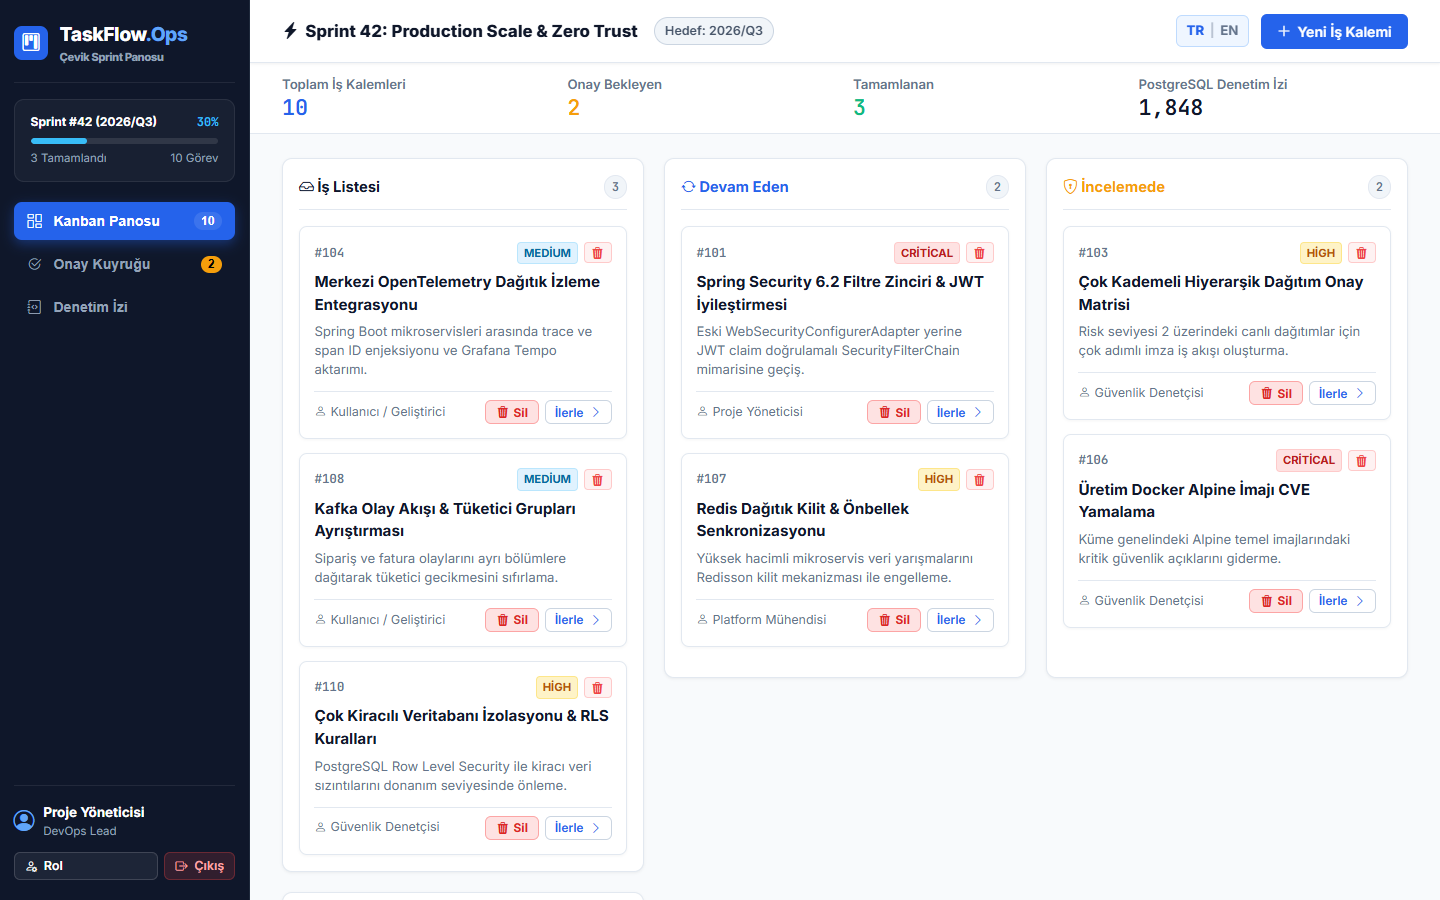
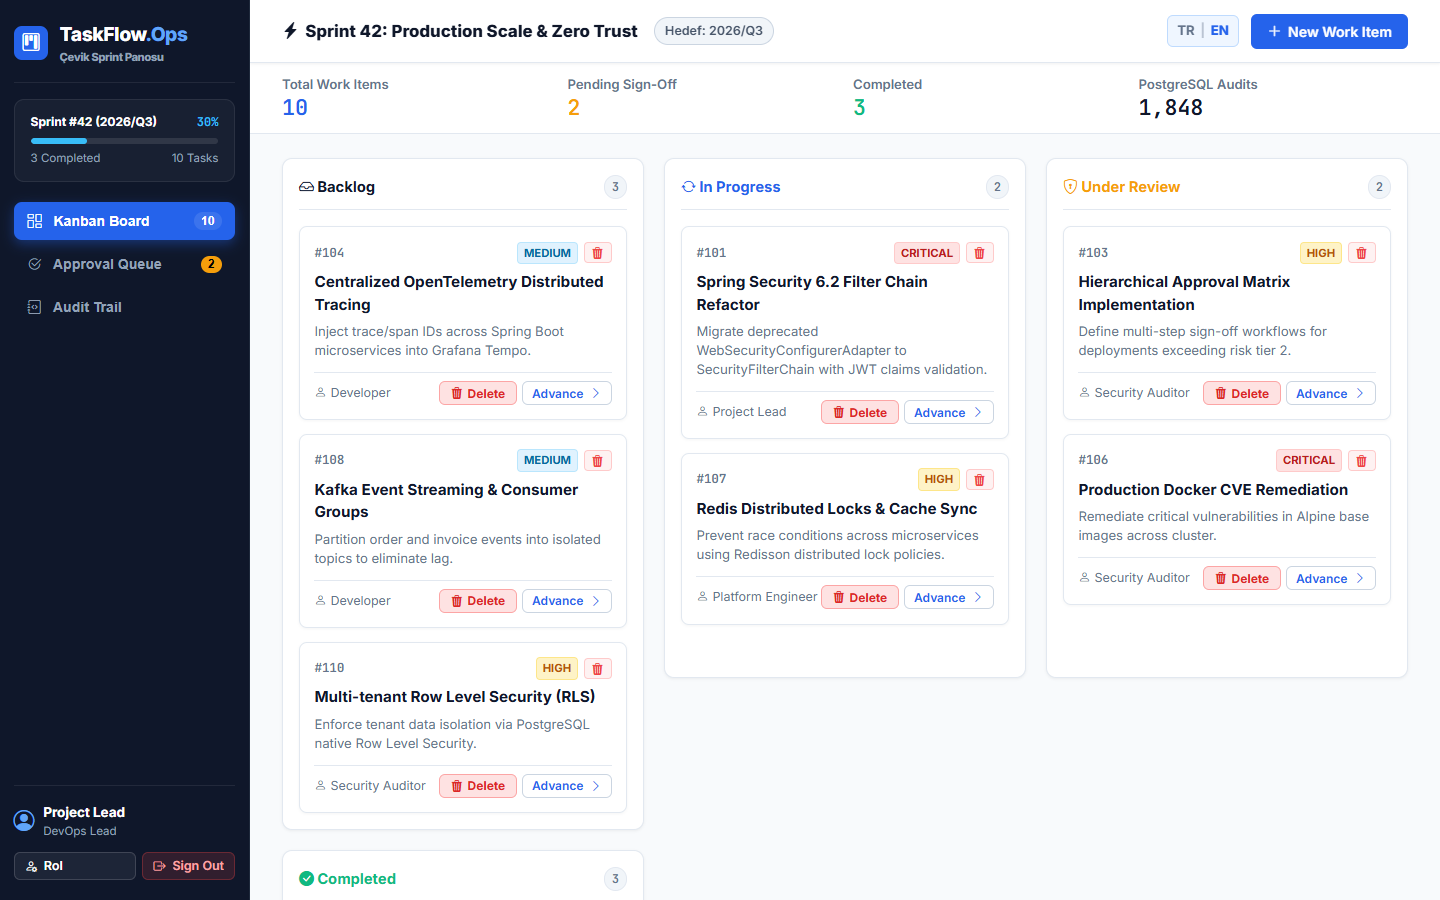
docs: clean English documentation without emojis, English screenshots and default locale

diff --git a/index.html b/index.html
@@ -957,7 +957,7 @@
   </div>
 
   <script>
-    let currentLang = localStorage.getItem('tf_lang') || 'tr';
+    let currentLang = localStorage.getItem('tf_lang') || 'en';
 
     const i18n = {
       tr: {

diff --git a/README.md b/README.md
@@ -1,110 +1,108 @@
-# TaskFlow.Ops ⚡
-> **Agile & DevOps Görev Masası • Linear & Jira Tarzı Modern Sprint Panosu**
+# TaskFlow.Ops
+> Agile & DevOps Task Management Board • Linear & Jira Architecture
 
-[![Canlı Demo](https://img.shields.io/badge/Canl%C4%B1_Demo-taskflowops.web.app-6366f1?style=for-the-badge&logo=google-chrome&logoColor=white)](https://taskflowops.web.app)
-[![Lisans](https://img.shields.io/badge/Lisans-MIT-blue.svg?style=for-the-badge)](LICENSE)
-[![Teknoloji](https://img.shields.io/badge/Teknoloji-Vanilla_ES6%2B_No_Framework-yellow?style=for-the-badge&logo=javascript)](https://developer.mozilla.org)
-[![Stil](https://img.shields.io/badge/Aray%C3%BCz-Modern_CSS3_Flex_Grid-orange?style=for-the-badge&logo=css3)](https://developer.mozilla.org)
-[![Dil Desteği](https://img.shields.io/badge/Dil-T%C3%BCrk%C3%A7e_%7C_English-green?style=for-the-badge)](https://taskflowops.web.app)
-
----
-
-## 📸 Canlı Önizleme (Previews)
-
-### 1. Agile & DevOps Sprint Çalışma Masası
-Linear ve Jira mimarisinden ilham alan 4 kolonlu Kanban panosu, sprint tamamlama yüzdesi ve her kart üzerinde **belirgin kırmızı görev silme butonları**:
-![TaskFlow Dashboard Önizleme](docs/preview-dashboard.png)
-
-### 2. Geliştirici Komuta Merkezi Giriş Portalı (Developer Command Deck)
-Kubernetes küme telemetri şeridi, siber nokta ızgarası, SSH / API yetkilendirme alanları ve önceden tanımlı hazır roller:
-![TaskFlow Login Önizleme](docs/preview-login.png)
+[![Live Demo](https://img.shields.io/badge/Live_Demo-taskflowops.web.app-6366f1?style=for-the-badge)](https://taskflowops.web.app)
+[![License](https://img.shields.io/badge/License-MIT-blue.svg?style=for-the-badge)](LICENSE)
+[![Technology](https://img.shields.io/badge/Technology-Vanilla_ES6%2B-yellow?style=for-the-badge)](https://developer.mozilla.org)
+[![Interface](https://img.shields.io/badge/Interface-CSS3_Grid_Flexbox-orange?style=for-the-badge)](https://developer.mozilla.org)
+[![Language Support](https://img.shields.io/badge/Language-English_%7C_Turkish-green?style=for-the-badge)](https://taskflowops.web.app)
 
 ---
 
-## 🌟 Öne Çıkan Özellikler
+## Previews
 
-### 1. Sektöre Özgü Agile & DevOps Mimarisi
-- **Linear / Jira Tarzı Modern Tasarım**: Koyu lacivert/indigo arka plan, sol sabit hızlı erişim dock'u (`.agile-dock`) ve Sprint #42 ilerleme kartı.
-- **4 Kolonlu Kanban İş Akışı**: *İş Listesi (Backlog)*, *Devam Eden (In Progress)*, *İncelemede (Review)* ve *Tamamlanan (Done)* sütunları arasında kart geçişleri.
-- **Canlı DevOps Denetim İzi (Audit Log)**: PostgreSQL audit log simülasyonu ile her görev oluşturma, durum değiştirme ve silme işlemi `k8s-taskflow-v2` telemetrisiyle anlık olarak kaydedilir.
+### 1. Agile & DevOps Sprint Board
+Linear and Jira-inspired 4-column Kanban board featuring sprint progress tracking and prominent red task deletion actions on every card:
+![TaskFlow Dashboard Preview](docs/preview-dashboard.png)
 
-### 2. Belirgin Görev Silme (Task Deletion) Mekanizması
-- **Kart Altında Kırmızı Sil Butonu**: Her Kanban kartının alt aksiyon barında durum ilerletme butonunun yanında doğrudan fark edilebilir kırmızı etiketli **"Sil" (`bi-trash3`)** butonu yer alır.
-- **Başlık Çöp Kutusu İkonu**: Kart ID kodunun yanındaki silme ikonu kırmızı hover efektiyle güçlendirilmiştir.
-- **Sprint Onay Kuyruğu Silme Aksiyonu**: Onay bekleyen görevler tablosunda doğrudan silme işlemi yapılabilir.
-- **Dinamik Yeniden Hesaplama**: Bir görev silindiğinde `#deleteTaskModal` onay penceresi açılır; onaylandığında kart DOM'dan kaldırılır, `localStorage` (`tf_tasks_v2`) senkronize edilir, sprint doluluk yüzdesi ve tamamlanan iş sayaçları dinamik olarak yeniden hesaplanır.
-
-### 3. Oturum Kalıcılığı (Session Persistence) & Zero-Flicker Başlangıç
-- **Sayfa Yenilemelerinde Oturumu Hatırla**: `submitLogin()` sonrasında oturum durumu `localStorage.getItem('tf_logged_in')` ile saklanır.
-- **Sıfır Titreme (Zero-Flicker)**: Sayfa yenilendiğinde (F5) inline script kontrolü sayesinde giriş ekranı 1 salise dahi görünmeden doğrudan çalışma masası açılır.
-- **Güvenli Çıkış**: Sağ üstteki kırmızı **"Çıkış"** butonuna basıldığında oturum sıfırlanır ve giriş portalına güvenle dönülür.
-- **Önceden Doldurulmuş Demo Bilgileri**: Giriş ekranında e-posta ve şifre hazır girili gelir; altındaki hızlı rol butonlarıyla (`DevOps Lead`, `Güvenlik Denetçisi`, `Müşteri Lead`, `Geliştirici`) tek tıkla kimlik değiştirilebilir.
-
-### 4. Çift Dilli Tam Destek (TR | EN)
-- Sağ üstteki dil seçici (`[ TR | EN ]`) ile sayfa yenilenmeden tüm Kanban başlıkları, modal metinleri, toast bildirimleri ve hata mesajları dinamik olarak güncellenir.
-- Başlangıç varsayılan dili **Türkçe**'dir.
+### 2. Developer Command Deck Login Portal
+Kubernetes cluster telemetry breadcrumbs, dot-matrix grid, SSH/API authentication inputs, and pre-configured role presets:
+![TaskFlow Login Preview](docs/preview-login.png)
 
 ---
 
-## 🛠 Teknoloji Yığını (Tech Stack)
+## Key Features
 
-| Bileşen | Teknoloji / Kütüphane | Açıklama |
+### Agile & DevOps Architecture
+- Linear and Jira-inspired modern design featuring a dark indigo background, fixed left quick-dock, and active sprint progress card.
+- 4-column Kanban workflow: Backlog, In Progress, Under Review, and Completed with smooth card transitions.
+- Live DevOps audit trail simulating PostgreSQL system logs for task creation, state transitions, and deletion events.
+
+### Prominent Task Deletion Mechanism
+- Prominent red labeled Delete button placed in the footer of every Kanban card next to the Advance action for immediate discoverability.
+- Trash icon in the card header enlarged with an active red hover effect.
+- Direct task removal actions in the sprint approval queue table.
+- Dynamic recalculation: deleting a task triggers a confirmation modal, removes the card from the DOM, updates localStorage, recalculates sprint completion percentage and velocity metrics, and writes an audit log entry.
+
+### Session Persistence & Zero-Flicker Initialization
+- Remembers login state across page reloads using browser localStorage.
+- Zero-flicker inline execution: verifying authentication state before paint prevents login overlay flash upon page reload.
+- Secure sign-out action cleans up stored session tokens and returns to the login screen.
+- Pre-filled demo credentials and one-click role switchers (DevOps Lead, Security Auditor, Client Lead, Developer).
+
+### Bilingual Support (English | Turkish)
+- Instant language toggle in the header switching all Kanban column titles, modal content, toast alerts, and badges without reloading the page.
+- Default language is English.
+
+---
+
+## Tech Stack
+
+| Layer | Technology | Purpose |
 | :--- | :--- | :--- |
-| **Arayüz (UI)** | HTML5, CSS3, Flexbox & CSS Grid | Sıfır harici CSS framework'ü, tam responsive mobil uyumlu |
-| **Mantık & State** | Vanilla ES6+ JavaScript | Harici framework bağımlılığı olmaksızın tam reaktif state yönetimi |
-| **İkon Seti** | Bootstrap Icons v1.11.3 | SVG tabanlı modern sistem ikonları |
-| **Kalıcılık (Storage)** | HTML5 Web Storage (`localStorage`) | Görevler, denetim logları, oturum ve dil tercihleri |
-| **Yayın Altyapısı** | Firebase Hosting (eticaretdepo) | Global CDN üzerinden SSL korumalı yüksek hızlı statik yayın |
+| UI & Layout | HTML5, CSS3 Grid, Flexbox | Dark mode agile layout, responsive mobile design |
+| Logic & State | Vanilla ES6+ JavaScript | Zero external frameworks, reactive state management |
+| Icons | Bootstrap Icons v1.11.3 | System icons |
+| Persistence | HTML5 localStorage | Tasks, audit logs, session state, and language preferences |
+| Hosting | Firebase Hosting | Global CDN deployment with SSL encryption |
 
 ---
 
-## 📁 Proje Dizin Yapısı
+## Directory Structure
 
 ```
 TaskFlow/
-├── index.html              # Tüm uygulama tek ve optimize edilmiş kaynak kodda
-├── docs/                   # Dokümantasyon ve ekran görüntüleri
-│   ├── preview-dashboard.png # Kanban panosu yüksek çözünürlüklü önizleme
-│   └── preview-login.png     # Command Deck giriş ekranı önizleme
-└── README.md               # Proje dokümantasyonu
+├── index.html              # Complete single-page application
+├── docs/                   # Documentation assets and screenshots
+│   ├── preview-dashboard.png # High-resolution dashboard preview
+│   └── preview-login.png     # High-resolution login portal preview
+└── README.md               # Project documentation
 ```
 
 ---
 
-## ⚡ Hızlı Başlangıç (Local Setup)
+## Getting Started
 
-Projeyi yerel ortamınızda çalıştırmak için herhangi bir paket yöneticisi (`npm`, `yarn`) veya derleyici (`webpack`, `vite`) kurmanıza gerek yoktur:
+Run locally without build steps, package managers, or compilers:
 
-1. Depoyu klonlayın:
+1. Clone the repository:
    ```bash
    git clone https://github.com/kubrvk/TaskFlow.git
    cd TaskFlow
    ```
-2. `index.html` dosyasını tarayıcınızda çift tıklayarak doğrudan açın:
+2. Open `index.html` directly in any web browser:
    ```bash
    start index.html
    ```
-3. Veya yerel bir HTTP sunucusu ile başlatın:
+3. Alternatively, serve with any local HTTP server:
    ```bash
    npx serve .
-   # veya
-   python -m http.server 8080
    ```
-4. Tarayıcınızda `http://localhost:8080` adresine gidin.
-   - *Giriş ekranını atlayıp doğrudan panoyu görmek için:* `http://localhost:8080/?demo=1`
+4. Access `http://localhost:3000` in your browser.
+   - To bypass login and view the dashboard directly: `http://localhost:3000/?demo=1`
 
 ---
 
-## 🌐 Canlı Sistem
+## Live System
 
-- **Canlı URL**: [https://taskflowops.web.app](https://taskflowops.web.app)
-- **Doğrudan Demo Bağlantısı**: [https://taskflowops.web.app/?demo=1](https://taskflowops.web.app/?demo=1)
+- Live URL: [https://taskflowops.web.app](https://taskflowops.web.app)
+- Direct Dashboard Link: [https://taskflowops.web.app/?demo=1](https://taskflowops.web.app/?demo=1)
 
 ---
 
-## 👤 Geliştirici
+## Author
 
-**Developed by Beraat Yetkin**
+Developed by Beraat Yetkin
 - GitHub: [@kubrvk](https://github.com/kubrvk)
-- Proje Deposu: [TaskFlow](https://github.com/kubrvk/TaskFlow)
-- Portfolyo: [Beraat Yetkin Portfolio](https://github.com/kubrvk/portfolio)
+- Repository: [TaskFlow](https://github.com/kubrvk/TaskFlow)
+- Portfolio: [Beraat Yetkin Portfolio](https://github.com/kubrvk/portfolio)
